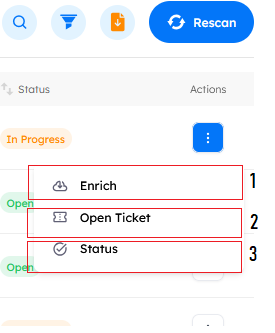
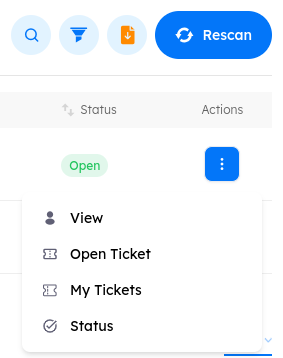
fix issues

diff --git a/modules/detect/analyzed_emails.md b/modules/detect/analyzed_emails.md
@@ -7,7 +7,8 @@ The user interface consists of multiple elements, and each will be explained bel
 
 ---
 
-1. **Analyzed Emails**: Give the overall number of reported emails in the platform, including emails for all sources.
+## Analyzed Emails Details:
+1. Give the overall number of reported emails in the platform, including emails for all sources.
 2. Searches any of the displayed columns for emails that match the search keywords.
 3. Filters the displayed emails based on severity, source, status, or user.
 4. Exports the listing data, all the analyzed emails, in CSV, XLS, or JSON format.
@@ -28,7 +29,7 @@ The true power of the dPhish Detect module is in the capabilities it provides to
 
 ![Detect-Phish analyzed emails actions!](../../assets/detect/analyzedEmails/emails_actions.png "Detect-Phish analyzed emails actions")
 
-The items of the **Actions** menu are as follows:
+### The items of the Actions menu are as follows:
 1. **View**
     Opens the scan results page for the reported email. The page provides details about the email, including attachments (if any), email headers, server hops, and observables. It also displays the scan results, such as the severity score and a list of matching rules.
     The UI elements of the results page are as follows:
@@ -65,7 +66,7 @@ The items of the **Actions** menu are as follows:
 
     1. **Title**: The title of the new ticket.
     2. **User**: The human analyst that will be assigned the ticket. The value of this item can be any of the users registered on the platform.
-    3. **Email**: If the analyst that will be assigned the ticket is not a registered user on the platform, the ticket can still be assigned to them, and an email notification will be sent notifying them of the ticker.
+    3. **Email**: If the analyst that will be assigned the ticket is not a registered user on the platform, the ticket can still be assigned to them, and an email notification will be sent notifying them of the ticket.
     4. **Notify**: Select if you want an email notification sent to the assigned person.
     5. **Details**: Extra information that will be sent to the assigned person along with the ticket notification.
 

diff --git a/modules/detect/leaked_credentials.md b/modules/detect/leaked_credentials.md
@@ -20,8 +20,9 @@ The main page of the leaked credentials section contains the following UI elemen
 11. **Count**: The total number of data leaks found for a target.
 12. **Status**: The current status of the leak. Security teams should promptly resolve cases of credential leaks by resetting the passwords or limiting access to critical infrastructure. The status can be Open, In Progress, Resolved, or False Positive.
 13. **Actions**: Opens the actions menu related to a leak entry. The menu has the following options:
-    - **Enrich**: Opens a new window that gives detailed information about the selected leak. The information includes the data that was leaked, whether it is a malware log or a public breach, and if it is a malware log, which malicious software was responsible for it.
+    - **View**: View detailed information about the leaked credentials.
     - **Open Ticket**: Used to create a new ticket and assign it to a human analyst to investigate the leak incident.
+    - **My Tickets**: Used to show all tickets the leak incident.
     - **Status**: The status of the leak. Can be Open, In Progress, Resolved, or False Positive.
 
     ![Detect-Phish leaked credentials actions!](../../assets/detect/leakedCredentials/actions.png "Detect-Phish leaked credentials actions")

diff --git a/modules/detect/response.md b/modules/detect/response.md
@@ -3,6 +3,7 @@
 **Response**
 Once an investigation of a reported email is complete and the final verdict is malicious, it’s crucial to accurately assess the situation to respond to the threat. The response feature allows analysts to search for an email, using either the sender or the subject of the email, over every mailbox in the organization. This search process, also called Scope, will aggregate all emails in the organization that match the search criteria and display them in a listing to the analyst. The UI of the response page is simple yet powerful:
 
+## Response Details:
 1. **Delete**: Delete the selected email from the view page. This will delete the email from the mailbox of the reported.
 2. **Quarantine**: Same as delete, except the mail will be quarantined instead of deleted.
 3. **Scope by Sender**: Searches for emails in the organization that originated from sender as in the reported email.

diff --git a/modules/utilities/target.md b/modules/utilities/target.md
@@ -29,7 +29,7 @@ Upon accessing the `Target tab`, users encounter key indicators at the top of th
         11. **Actions**:
             - `View`: View target’s information.
             - `Edit`: Edits target’s information.
-            - `Create Drill Account`: Create drill user to specific target, granting them access to the LMS.
+            - `Create Drill Account`: Create drill user for specific target, granting them access to the LMS.
             - `Delete`: Deletes the target from the system.
 
     ![utilities-Phish target actions button!](../../assets/utilities/target/target_actions_button.png "utilities-Phish target actions button")

diff --git a/modules/detect/ioc.md b/modules/detect/ioc.md
@@ -1,11 +1,12 @@
 # Main Page
 
-The `IOCs` section is a dashboard aggregating all Indicators of Compromise (IOCs) as extracted from the reported emails on the platform. The dashboard the following element:
+The `IOCs` section is a dashboard aggregating all Indicators of Compromise (IOCs) as extracted from the reported emails on the platform. The dashboard includes the following elements:
 
 ![Detect-Phish ioc main!](../../assets/detect/ioc/main.png "Detect-Phish ioc main")
 
 ---
 
+## IOC Details:
 1. The total number of IoCs on the platform.
 2. Filter the listing using Email, Scan Type, or Scan Object.
 3. Export the IoCs as a CSV file.
